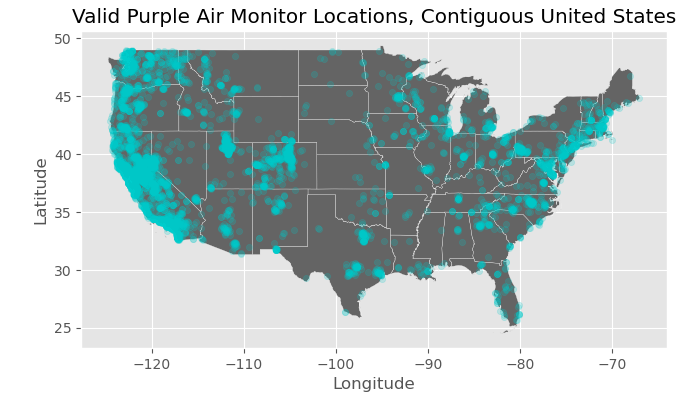
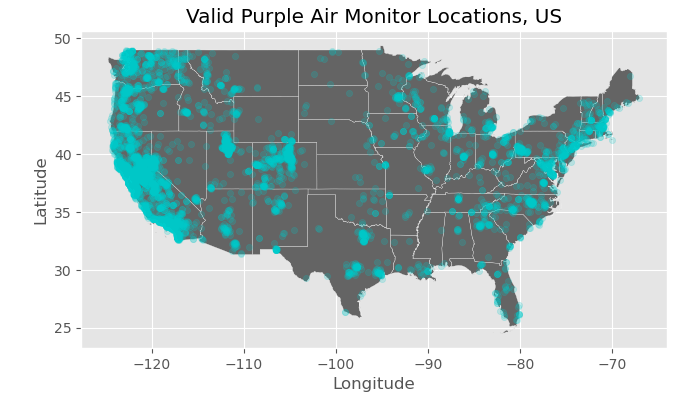
Adding main run.py script and consolidating/modularizing the maps code.

Changed region(s): [[0.09, 0.0, 0.96, 0.06]]

diff --git a/acwatt_syp_code/analyze/maps.py b/acwatt_syp_code/analyze/maps.py
@@ -10,57 +10,79 @@ import geopandas as gpd
 from geopandas.tools import sjoin
 from pathlib import Path
 from shapely.geometry import Point, Polygon
+
 # Third-party Imports
 # Local Imports
 
-save_dir = Path('output/summary_stats/maps')
-world = gpd.read_file(gpd.datasets.get_path('naturalearth_lowres'))
-states_shp = Path('data/cb_2018_us_state_5m/cb_2018_us_state_5m.shp')
-all_states = gpd.read_file(states_shp)
-
-lower48 = (all_states
-    .loc[all_states.STATEFP.astype(int) < 60]
-    .loc[~all_states.NAME.isin(['Alaska', 'Hawaii'])])
-california = all_states.loc[all_states.NAME.isin(['California'])]
-sensor_points = [Point(xy) for xy in zip(sensor_df['lon'], sensor_df['lat'])]
-sensors = gpd.GeoDataFrame(sensor_df, crs=all_states.crs, geometry=sensor_points)
-sensors_lower48 = sjoin(sensors, lower48, how='inner')
-sensors_california = sjoin(sensors, california, how='inner')
-
-polygon_kwgs = {'facecolor': (100/255, 100/255, 100/255, 1),
-                'edgecolor': 'white',
-                'lw': 0.2}
-marker_kwgs = {'facecolor': (0, 204/255, 204/255, 0.2),
-               'markersize': 20,
-               'marker': 'o'}
-
 plt.style.use('ggplot')
-fix, ax = plt.subplots(figsize=(7.5, 4))
-world.plot(ax=ax, **polygon_kwgs)
-sensors.plot(ax=ax, **marker_kwgs)
-plt.title("Valid Purple Air Monitor Locations, Global")
-plt.xlabel('Longitude')
-plt.ylabel('Latitude')
-plt.tight_layout()
-plt.savefig(save_dir / 'purple_air_sensor_map_global.png')
 
 
-fix, ax = plt.subplots(figsize=(7, 4))
-lower48.plot(ax=ax, **polygon_kwgs)
-sensors_lower48.plot(ax=ax, **marker_kwgs)
-plt.title("Valid Purple Air Monitor Locations, Contiguous United States")
-plt.xlabel('Longitude')
-plt.ylabel('Latitude')
-plt.tight_layout()
-plt.savefig(save_dir / 'purple_air_sensor_map_us.png')
-
-fix, ax = plt.subplots(figsize=(8, 8))
-california.plot(ax=ax, **polygon_kwgs)
-sensors_california.plot(ax=ax, **marker_kwgs)
-plt.title("Valid Purple Air Monitor Locations, California")
-plt.xlabel('Longitude')
-plt.ylabel('Latitude')
-plt.tight_layout()
-plt.savefig(save_dir / 'purple_air_sensor_map_california.png')
+def root_path(rootname='are219'):
+    """Return pathlib path to root of git project."""
+    parts = Path.cwd().parts
+    i = parts.index(rootname)
+    return Path(*parts[:i + 1])
 
 
+def sensor_df_to_geo(df, area):
+    """Return geopandas dataframes: one with sensor points, one with geographic area polygons.
+
+    sensor_df = dataframe of sensor data, inlcuding columns = lat, lon
+    area = string indicating area = ['world', 'us', 'california']
+    """
+    if area == 'world':
+        base_gdf = gpd.read_file(gpd.datasets.get_path('naturalearth_lowres'))
+    elif area in ['us', 'california']:
+        path_ = root_path() / 'data' / 'cb_2018_us_state_5m' / 'cb_2018_us_state_5m.shp'
+        base_gdf = gpd.read_file(path_)
+        if area == 'us':
+            base_gdf = (base_gdf
+                .loc[base_gdf.STATEFP.astype(int) < 60]
+                .loc[~base_gdf.NAME.isin(['Alaska', 'Hawaii'])])
+        elif area == 'california':
+            base_gdf = base_gdf.loc[base_gdf.NAME.isin(['California'])]
+    else:
+        print(f'area = {area}: Not a supported area parameter.')
+        raise
+
+    sensor_points = [Point(xy) for xy in zip(df['lon'], df['lat'])]
+    sensors_gdf = gpd.GeoDataFrame(df, crs=base_gdf.crs, geometry=sensor_points)
+    sensors_gdf = sjoin(sensors_gdf, base_gdf, how='inner')
+    return sensors_gdf, base_gdf
+
+
+def sensor_plot(sensor_df, area='world', rootname='are219'):
+    """Save png of plot of sensors in given geographical area.
+
+    sensor_df = dataframe of sensor data, inlcuding columns = lat, lon
+    area = string indicating area = ['world', 'us', 'california']
+    """
+    save_dir = root_path(rootname) / 'output' / 'summary_stats' / 'maps'
+
+    polygon_kwgs = {'facecolor': (100 / 255, 100 / 255, 100 / 255, 1),
+                    'edgecolor': 'white',
+                    'lw': 0.2}
+    marker_kwgs = {'facecolor': (0, 204 / 255, 204 / 255, 0.2),
+                   'markersize': 20,
+                   'marker': 'o'}
+
+    figsize_dict = {'world': (7.5, 4),
+                    'us': (7, 4),
+                    'california': (8, 8)}
+
+    sensor_gdf, base_gdf = sensor_df_to_geo(sensor_df, area)
+
+    fix, ax = plt.subplots(figsize=figsize_dict[area])
+    base_gdf.plot(ax=ax, **polygon_kwgs)
+    sensor_gdf.plot(ax=ax, **marker_kwgs)
+    location = area.upper()*(area == 'us') + area.title()*(area != 'us')
+    plt.title(f"Valid Purple Air Monitor Locations, {location}")
+    plt.xlabel('Longitude')
+    plt.ylabel('Latitude')
+    plt.tight_layout()
+    plt.savefig(save_dir / f'purple_air_sensor_map_{area}.png')
+
+
+def make_all_sensor_maps(sensor_df):
+    for area in ['world', 'us', 'california']:
+        sensor_plot(sensor_df, area=area, rootname='are219')

diff --git a/acwatt_syp_code/run.py b/acwatt_syp_code/run.py
@@ -1,0 +1,14 @@
+#!/usr/bin/env python
+
+"""Module Docstring"""
+
+# Built-in Imports
+# Third-party Imports
+# Local Imports
+import analyze.maps as am
+import build.purpleair_download as pad
+
+if __name__ == "__main__":
+    sensor_df = pad.load_sensor_data()
+    am.make_all_sensor_maps(sensor_df)
+    print()

diff --git a/acwatt_syp_code/build/purpleair_download.py b/acwatt_syp_code/build/purpleair_download.py
@@ -55,6 +55,7 @@ def get_data_from_sensor(sensor_id):
     return df
 
 
-if __name__ == "__main__":
+def load_sensor_data():
     sensor_df = list_sensors()
     sensor_df = filter_data(sensor_df)
+    return sensor_df
